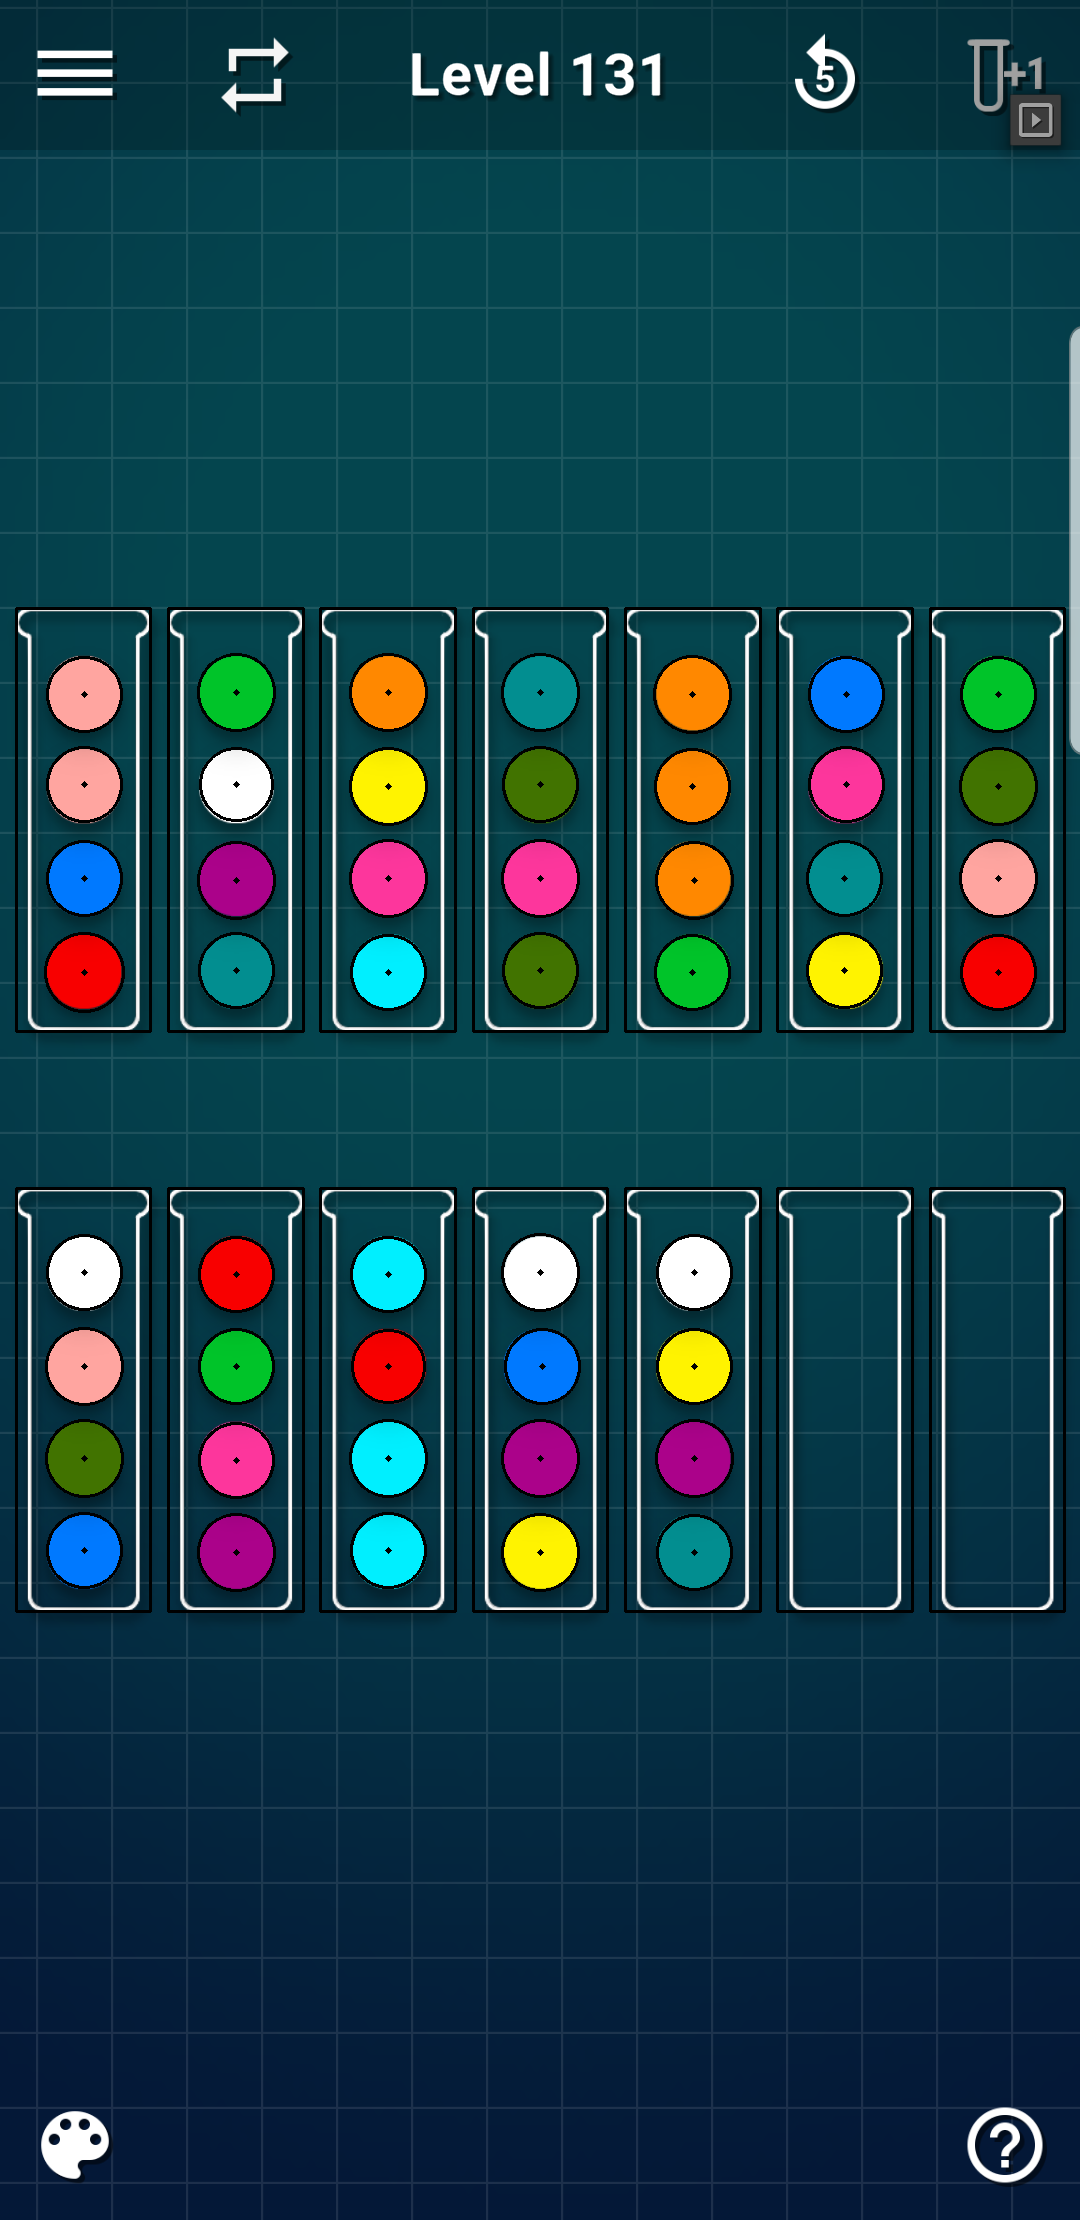
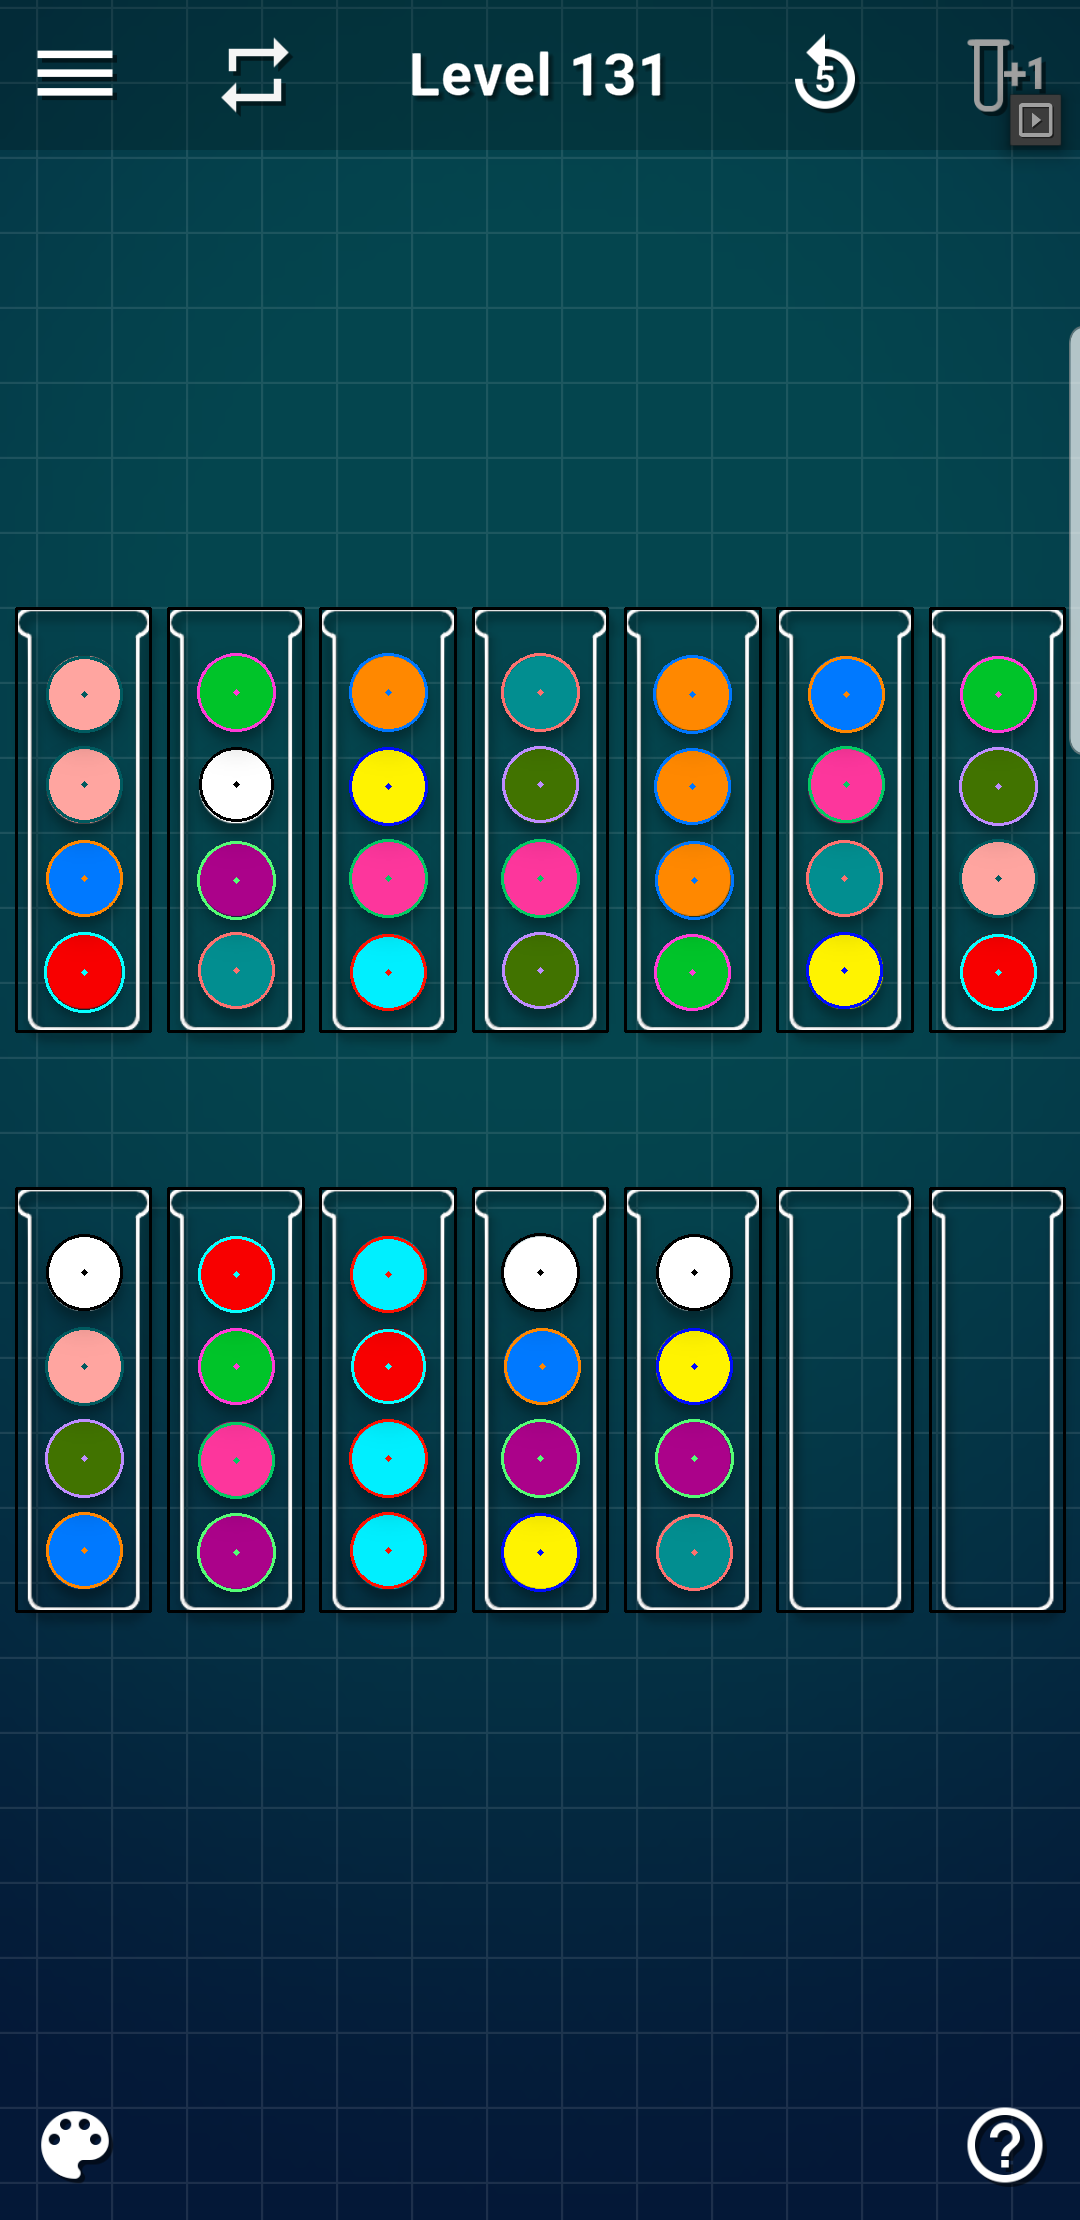
inverted color to improve contrast

diff --git a/Python/ColorSortPuzzle/main.py b/Python/ColorSortPuzzle/main.py
@@ -167,9 +167,10 @@ for current in bounding_rectangles:
 # loop over the (x, y) coordinates and radius of the circles
 display_image = ORIGINAL_IMAGE.copy()
 for circle in circles:
-    # draw the circle in the output image
-    cv.circle(display_image, (circle.column, circle.row), circle.radius, (0, 0, 0), 2)
-    cv.circle(display_image, (circle.column, circle.row), 1, (0, 0, 0), 4)
+    # Outline the circle in the output image using an inverted color to improve contrast
+    inv_color = (255 - circle.color[0], 255 - circle.color[1], 255 - circle.color[2])
+    cv.circle(display_image, (circle.column, circle.row), circle.radius, inv_color, 2)
+    cv.circle(display_image, (circle.column, circle.row), 1, inv_color, 4)
 
 for rectangle in containers:
     cv.rectangle(
